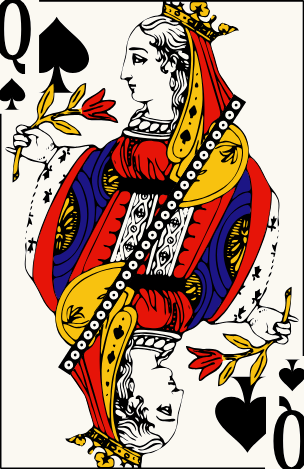
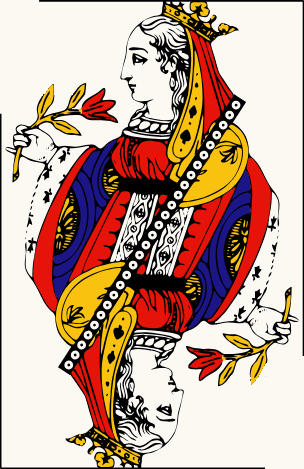
Klädda kort: Bellots engelska hörn borttagna i bilden i stället för lapp
Bokstav, litet och stort färgtecken tas bort som hela former i hörnet (stora
sammanhängande ytor), det lilla färgtecknet även när det sitter ihop med
figuren. Små detaljer i bilden lämnas. Svenska index med krämvit kant.

Changed region(s): [[0.0, 0.0, 0.2961, 0.2388], [0.7105, 0.7463, 1.0, 1.0], [0.8586, 0.7761, 0.8882, 0.806]]

diff --git a/verktyg/bellot_kladda.py b/verktyg/bellot_kladda.py
@@ -19,6 +19,77 @@ FARGER = ["spade", "heart", "diamond", "club"]  # samma ordning som kort.gd
 VALORER = {11: "jack", 12: "queen", 13: "king"}
 
 
+HORN = (100, 115)  # hörnområdet i den beskurna bilden (bredd, höjd)
+MINSTA = 120  # pixlar: mindre former i hörnet är detaljer i bilden
+LITET = (0, 62, 22, 112)  # remsan med det lilla färgtecknet (x0, y0, x1, y1), under bokstaven
+
+
+def ta_bort_horn(bild):
+    """Gör enfärgade former (svart eller rött) som ligger helt inom hörnområdet vita, med kantpixlar."""
+    px = bild.load()
+    w, h = bild.size
+
+    def farg(x, y):
+        r, g, b, a = px[x, y]
+        if a < 128:
+            return False
+        svart = max(r, g, b) < 110
+        rod = r > 150 and g < 110 and b < 110
+        return svart or rod
+
+    sedd = set()
+    for y0 in range(HORN[1]):
+        for x0 in range(HORN[0]):
+            if (x0, y0) in sedd or not farg(x0, y0):
+                continue
+            komp = []
+            ko = [(x0, y0)]
+            sedd.add((x0, y0))
+            inne = True
+            while ko:
+                x, y = ko.pop()
+                komp.append((x, y))
+                for nx, ny in ((x + 1, y), (x - 1, y), (x, y + 1), (x, y - 1)):
+                    if 0 <= nx < w and 0 <= ny < h and (nx, ny) not in sedd and farg(nx, ny):
+                        sedd.add((nx, ny))
+                        ko.append((nx, ny))
+                        if nx >= HORN[0] or ny >= HORN[1]:
+                            inne = False
+            # ramlinjerna (långa, smala) och figuren når utanför hörnet och lämnas kvar, liksom små
+            # detaljer (konturbitar i ansikten); bokstäver och färgtecken är stora sammanhängande ytor
+            if inne and len(komp) >= MINSTA:
+                for x, y in komp:
+                    for dx in (-2, -1, 0, 1, 2):
+                        for dy in (-2, -1, 0, 1, 2):
+                            nx, ny = x + dx, y + dy
+                            if 0 <= nx < w and 0 <= ny < h and (dx == 0 and dy == 0 or min(px[nx, ny][:3]) > 60 or farg(nx, ny)):
+                                if dx == 0 and dy == 0 or not (0 <= nx < w and 0 <= ny < h) or _kant(px[nx, ny]):
+                                    px[nx, ny] = (255, 255, 255, 255)
+    # det lilla färgtecknet kan sitta ihop med figuren (t.ex. spaderkungens spira): kompakta enfärgade ytor
+    # (minst 21 av 25 grannar i samma färg) tas bort med kanter; tunna konturlinjer blir kvar
+    solid = set()
+    for y in range(LITET[1], LITET[3]):
+        for x in range(2, LITET[2]):
+            if farg(x, y) and sum(farg(x + dx, y + dy) for dx in range(-2, 3) for dy in range(-2, 3)) >= 21:
+                solid.add((x, y))
+    bort = set()
+    for x, y in solid:
+        for dx in range(-3, 4):
+            for dy in range(-3, 4):
+                nx, ny = x + dx, y + dy
+                if 0 <= nx < LITET[2] + 3 and 0 <= ny < h and (farg(nx, ny) or _kant(px[nx, ny])):
+                    bort.add((nx, ny))
+    for x, y in bort:
+        px[x, y] = (255, 255, 255, 255)
+    return bild
+
+
+def _kant(p):
+    """Kantpixel (antialias) mellan färgtecknet och vitt: ljus blandfärg."""
+    r, g, b, a = p
+    return a < 128 or min(r, g, b) > 60 or (r > 150 and g < 200)
+
+
 def main() -> int:
     if len(sys.argv) < 2:
         print(__doc__)
@@ -29,6 +100,10 @@ def main() -> int:
     for f, farg in enumerate(FARGER):
         for v, valor in VALORER.items():
             bild = Image.open(os.path.join(kalla, f"{farg}_{valor}.png")).convert("RGBA").crop(RAM)
+            # Bellots engelska hörn (bokstav, litet och stort färgtecken) tas bort i båda hörnen;
+            # de svenska indexen ritas av kortbild.gd. Bara former som ligger helt i hörnet tas bort.
+            bild = ta_bort_horn(bild)
+            bild = ta_bort_horn(bild.rotate(180)).rotate(180)
             # vitt (och nästan vitt i kanterna mot linjerna) blandas mot kortets färg
             px = bild.load()
             for y in range(bild.height):
